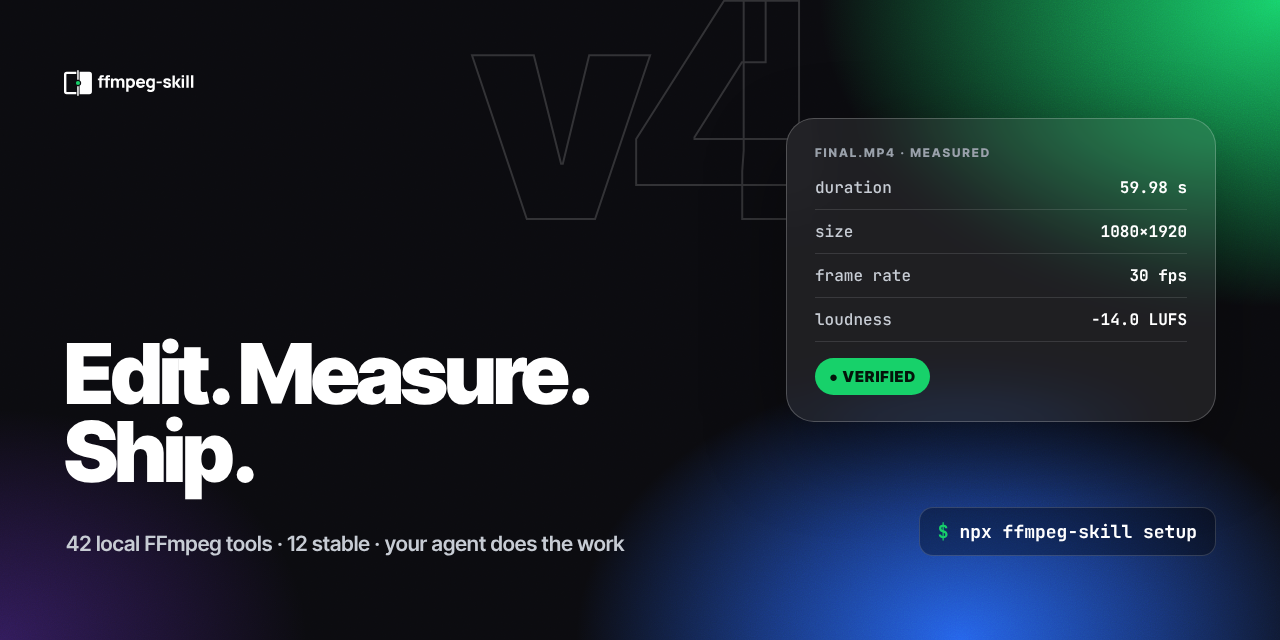
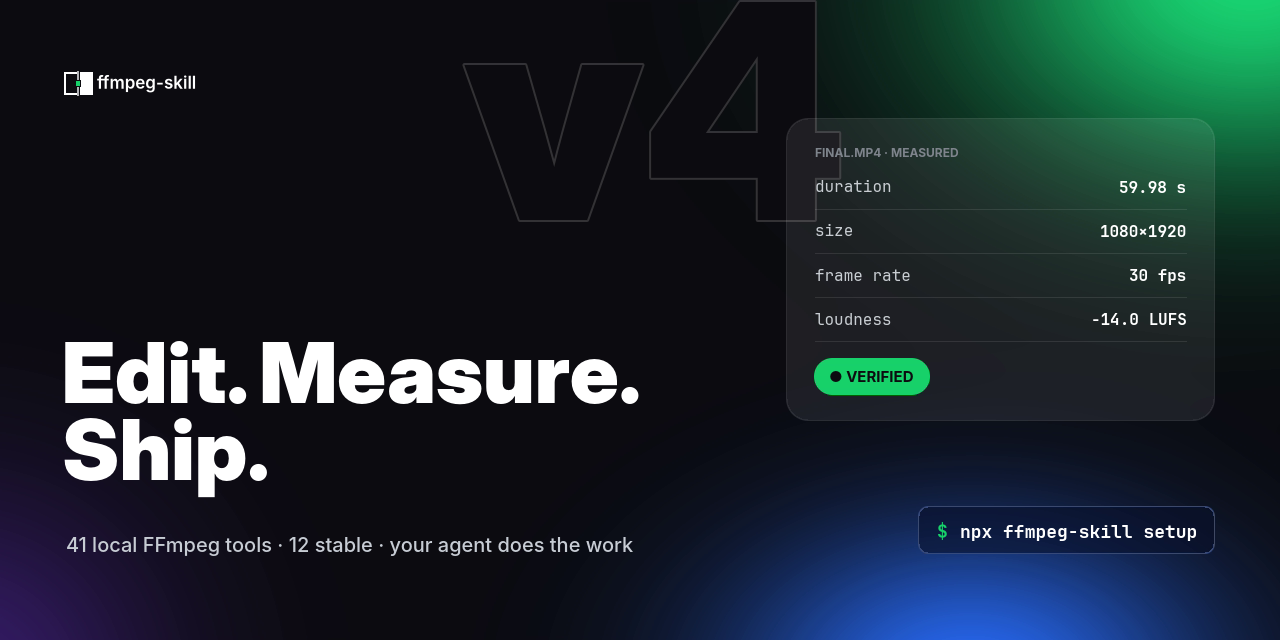
docs: 41 tools after crop became an alias (#683)
brand/og.png and site/brand/og.png drawn by `python3 brand/og.py` from the
contract (41 local FFmpeg tools · 12 stable), README's alt text for the card
says 41, and the design decision about the hand-drawn card says the first
change of the count has now replaced it.

Claude-Session: https://claude.ai/code/session_013tPrsGXLuaGU7t643QNUZs

diff --git a/docs/design-decisions.md b/docs/design-decisions.md
@@ -7352,8 +7352,9 @@ encode facts a result carried, and `FFMPEG_SKILL_HW` the only machine default.
   `test_the_social_card_says_the_contracts_tool_count` compares the chunk in both copies and
   README's alt text with the contract, so a change of the count fails until the card is drawn
   again. Pixels are not compared: they depend on the font files and the FFmpeg build.
-- **The hand-drawn card stays until the count changes.** Its pixels were not redrawn; the line it
-  shows was recorded in it (`og.write_text`, which leaves the image data as it is). The first change
-  of the count replaces it with the drawn one, which follows its layout.
+- **The hand-drawn card stayed until the count changed.** Its pixels were not redrawn; the line it
+  showed was recorded in it (`og.write_text`, which leaves the image data as it is). The first change
+  of the count, 42 to 41 when crop became an alias of fit (#683), replaced it with the drawn one,
+  which follows its layout.
 - Code: `brand/og.py`. Tests: `test_the_social_card_says_the_contracts_tool_count`,
   `test_the_social_card_generator_draws_the_line_it_records` (tests/test_contract.py).

diff --git a/README.md b/README.md
@@ -30,7 +30,7 @@ No cloud · No API keys · Python standard library<br>
 </p>
 
 <p align="center">
-  <a href="https://kajisho5.github.io/ffmpeg-skill/"><img src="brand/og.png" width="720" alt="ffmpeg-skill v4: Edit. Measure. Ship. 42 local FFmpeg tools, 12 stable; your agent does the work. A card shows final.mp4 measured: 59.98 s, 1080x1920, 30 fps, -14.0 LUFS, verified."></a>
+  <a href="https://kajisho5.github.io/ffmpeg-skill/"><img src="brand/og.png" width="720" alt="ffmpeg-skill v4: Edit. Measure. Ship. 41 local FFmpeg tools, 12 stable; your agent does the work. A card shows final.mp4 measured: 59.98 s, 1080x1920, 30 fps, -14.0 LUFS, verified."></a>
 </p>
 
 <p align="center">
